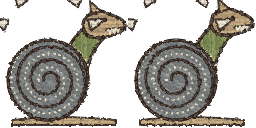
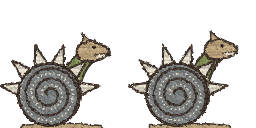
Add the winged snail-hound; redraw the armoured snail's spikes
Claude-Session: https://claude.ai/code/session_01Ub925vA7W77qaH7zf1hUDR

diff --git a/unity/Assets/Scripts/Actors/Enemy.cs b/unity/Assets/Scripts/Actors/Enemy.cs
@@ -11,7 +11,7 @@ namespace Tapestry
         public bool IsShell { get { return shell; } }
         public bool ShellMoving { get { return shell && shellVx != 0f && !carried; } }
         public bool Carried { get { return carried; } }
-        bool IsSnail { get { return Kind == "snail_hound" || Kind == "snail_moss"; } }
+        bool IsSnail { get { return Kind == "snail_hound" || Kind == "snail_moss" || Kind == "snail_wing"; } }
         bool carried;      // a green (mossy) shell held by a knight
         public int ShellCombo;   // beasts this shell has felled in a row (the score doubles each time)
         Knight carrier;
@@ -21,6 +21,7 @@ namespace Tapestry
         float dir = -1f, timer, anim, kickGrace, deadTimer, shellVx, lifeT;
         bool shell, squashed, flipped, charging, swooping, gravity = true;
         float speed, plantLevel;
+        bool winged;
         /// <summary>A plant sunk inside its urn: it cannot touch, or be touched.</summary>
         public bool Untouchable { get; private set; }
         /// <summary>1 normally; faster on 'Ye Wronge Syde' (the beasts, their hammers and spears all move and wait that much quicker).</summary>
@@ -49,6 +50,7 @@ namespace Tapestry
                 case "lapdog": speed = 2.6f; break;
                 case "smith": speed = 1.4f; break;
                 case "snail_spike": speed = 1.0f; break;
+                case "snail_wing": speed = 1.1f; gravity = false; winged = true; break;
                 case "urn_plant": gravity = false; break;
                 case "ember": gravity = false; timer = (pos.x * 0.37f) % 2f; break;
                 case "fox": speed = 1.4f; break;
@@ -109,6 +111,15 @@ namespace Tapestry
             float dx = ToPlayer(p);
             switch (Kind)
             {
+                case "snail_wing":
+                    if (winged)   // a lazy loop in the air, wings beating
+                    {
+                        float a = anim * 0.9f + home.x;
+                        Body.Pos = new Vector2(home.x + Mathf.Sin(a) * 2.5f, home.y + 1.6f + Mathf.Sin(a * 2f) * 0.6f);
+                        view.Face(Mathf.Cos(a) > 0f); view.SetFrame(3 + ((int)(anim * 6f) % 2));
+                        break;
+                    }
+                    goto case "snail_hound";
                 case "snail_hound":
                 case "snail_moss":
                     if (shell)
@@ -539,6 +550,13 @@ namespace Tapestry
         public bool OnKnight(Knight k, bool fromAbove)
         {
             if (!Alive || k.Dead) return false;
+            if (winged)   // a stomp clips its wings: it drops and walks
+            {
+                if (!fromAbove) { k.Hurt(); return false; }
+                winged = false; gravity = true; Body.Vel = Vector2.zero; k.Bounce(); Audio.Play("stomp");
+                GameManager.I.AddScore(100, Body.Pos + new Vector2(0f, Body.H));
+                return false;
+            }
             if (IsSnail && shell)
             {
                 if (ShellMoving)

diff --git a/tools/unity/preview_level.py b/tools/unity/preview_level.py
@@ -53,7 +53,7 @@ def render(n):
           elif c == ";" and get(x, y - 1) == "#": put(load(gtop), x + 0.5, y - 1)
           elif c in "Tt" and (x, y) not in done:
               done.add((x, y)); done.add((x + 1, y)); put(load("scenery/tower_top" if c == "T" else "scenery/tower_body"), x + 1, y)
-  spr = {"s": ("enemies/snail_hound", 3), "S": ("enemies/snail_moss", 3), "g": ("enemies/gull", 2), "x": ("enemies/crab", 2), "f": ("enemies/fish", 2), "z": ("enemies/sea_serpent", 2), "m": ("enemies/sea_monk", 2), "Q": ("scenery/log_pile", 1), "b": ("enemies/bird", 2), "e": ("enemies/hippocamp", 2), "v": ("enemies/stag", 2), "Z": ("scenery/wheel_year", 1), "j": ("enemies/boar", 2), "i": ("enemies/otter", 2), "n": ("enemies/swan", 2), "a": ("enemies/falcon", 2), "5": ("bosses/great_boar", 3), "y": ("enemies/hunter", 3), "q": ("enemies/greyhound", 2), "p": ("enemies/pheasant", 2), "I": ("enemies/genet", 2), "6": ("bosses/spotted_unicorn", 5), "{": ("enemies/lapdog", 2), "ß": ("enemies/smith", 3), "þ": ("enemies/snail_spike", 2), "}": ("enemies/fox", 2), "@": ("enemies/monkey", 2), "!": ("enemies/parakeet", 2), "$": ("bosses/heraldic_lion", 4), "&": ("enemies/locust", 2), "2": ("bosses/hydra_body", 2), "3": ("scenery/cat_throne", 1), "]": ("princess/aelfgyva", 3), "0": ("scenery/fountain", 1), "+": ("items/horn", 2), "<": ("scenery/wind_head", 1), ">": ("scenery/wind_head", 1), "h": ("enemies/killer_hare", 2), "l": ("enemies/fiery_lion", 3), "d": ("enemies/bayeux_hound", 2),
+  spr = {"s": ("enemies/snail_hound", 3), "S": ("enemies/snail_moss", 3), "g": ("enemies/gull", 2), "x": ("enemies/crab", 2), "f": ("enemies/fish", 2), "z": ("enemies/sea_serpent", 2), "m": ("enemies/sea_monk", 2), "Q": ("scenery/log_pile", 1), "b": ("enemies/bird", 2), "e": ("enemies/hippocamp", 2), "v": ("enemies/stag", 2), "Z": ("scenery/wheel_year", 1), "j": ("enemies/boar", 2), "i": ("enemies/otter", 2), "n": ("enemies/swan", 2), "a": ("enemies/falcon", 2), "5": ("bosses/great_boar", 3), "y": ("enemies/hunter", 3), "q": ("enemies/greyhound", 2), "p": ("enemies/pheasant", 2), "I": ("enemies/genet", 2), "6": ("bosses/spotted_unicorn", 5), "{": ("enemies/lapdog", 2), "ß": ("enemies/smith", 3), "þ": ("enemies/snail_spike", 2), "ƒ": ("enemies/snail_wing", 5), "}": ("enemies/fox", 2), "@": ("enemies/monkey", 2), "!": ("enemies/parakeet", 2), "$": ("bosses/heraldic_lion", 4), "&": ("enemies/locust", 2), "2": ("bosses/hydra_body", 2), "3": ("scenery/cat_throne", 1), "]": ("princess/aelfgyva", 3), "0": ("scenery/fountain", 1), "+": ("items/horn", 2), "<": ("scenery/wind_head", 1), ">": ("scenery/wind_head", 1), "h": ("enemies/killer_hare", 2), "l": ("enemies/fiery_lion", 3), "d": ("enemies/bayeux_hound", 2),
          "c": ("enemies/camel_dragon", 2), "w": ("enemies/wyvern", 2), "u": ("enemies/unicorn", 2), "O": ("enemies/owl_face", 2), "k": ("enemies/soup_cat", 3)}
   ws = re.search(r'WindSkin = "([^"]+)"', src)
   if ws: spr["<"] = spr[">"] = (ws.group(1), 1)

diff --git a/tools/emb/extras.py b/tools/emb/extras.py
@@ -127,14 +127,34 @@ C["ember"] = dict(title="Leaping Ember", size=(44, 46), frames=2, build=ember,
                   behaviour="leaps out of castle fire pits at intervals and falls back in; cannot be stomped or shot, only avoided")
 
 # ---------------------------------------------------------------- the armoured snail
+def _shrunk(base, f):
+    return g(base(f), "translate(6 16) scale(0.78)")
+
 def snail_spike(f):
     """A snail-hound in a grey iron shell studded with spikes: never stomp it."""
     from creatures import make_snail
-    s = make_snail("grey", "sage", "buff", "cream")(f)
-    for a in range(-70, 71, 35):   # spikes fanned over the top of the shell
-        x = 24 + 22 * math.sin(math.radians(a)); y = 20 - 22 * math.cos(math.radians(a))
-        dx = 9 * math.sin(math.radians(a)); dy = -9 * math.cos(math.radians(a))
-        s += fill(f"M{x - 3 * math.cos(math.radians(a)):.1f},{y - 3 * math.sin(math.radians(a)):.1f} L{x + dx:.1f},{y + dy:.1f} L{x + 3 * math.cos(math.radians(a)):.1f},{y + 3 * math.sin(math.radians(a)):.1f} Z", "white", 0, "dark", 1)
+    s = _shrunk(make_snail("grey", "sage", "buff", "cream"), f)
+    cx, cy, r = 24.7, 47.2, 15.6
+    for a in range(-80, 81, 32):
+        c, sn = math.cos(math.radians(a)), math.sin(math.radians(a))
+        bx, by = cx + r * sn, cy - r * c
+        s += fill(f"M{bx - 3.2 * c:.1f},{by - 3.2 * sn:.1f} L{bx + 10 * sn:.1f},{by - 10 * c:.1f} L{bx + 3.2 * c:.1f},{by + 3.2 * sn:.1f} Z", "white", 0, "dark", 1.1)
     return s
 C["snail_spike"] = dict(title="Armoured Snail-Hound", size=(64, 64), frames=2, build=snail_spike,
                         behaviour="walker with a spiked iron shell: stomping it hurts the knight; shoot it, or smite it with the relique")
+
+# ---------------------------------------------------------------- the winged snail-hound
+def snail_wing(f):
+    """Frames 0-1 walking and 2 shell (as the snail-hound, with a blue shell); 3-4 the winged flier, wings up then down."""
+    from creatures import make_snail
+    base = make_snail("sky", "rose", "buff", "white")
+    if f <= 2: return base(f)
+    s = _shrunk(base, 0)
+    if f == 3:   # wings lifted
+        w = "M22,24 Q8,20 2,6 Q14,8 18,2 Q22,12 30,8 Q28,18 30,24 Z"
+    else:        # wings swept down
+        w = "M22,24 Q8,30 2,44 Q14,40 18,46 Q22,36 30,40 Q28,30 30,24 Z"
+    s += fill(w, "white", 0, "dark", 1.3) + stem("M24,24 L10," + ("10" if f == 3 else "40") + " M26,24 L20," + ("6" if f == 3 else "42"), "grey", 0.8, False)
+    return s
+C["snail_wing"] = dict(title="Winged Snail-Hound", size=(64, 64), frames=5, build=snail_wing,
+                       behaviour="flies in a lazy loop; a stomp knocks its wings off and it walks, then hides in its shell like any snail-hound")

diff --git a/unity/Assets/Scripts/Levels/Level13.cs b/unity/Assets/Scripts/Levels/Level13.cs
@@ -25,7 +25,7 @@ namespace Tapestry
                 "         ?M?   BRB                        d             ?W?               BHB                               B?B?B B1B                                       BBB          BBB",
                 "                          ===            ====                                                ====                           ===              =====                      BBBB",
                 "                                                                                                                                                                       BBBBB",
-                "   P                  j j   h   S    u          þ   h         j       C         S     j             þ   u           j                 d             þ   j       h     BBBBBB      G",
+                "   P                  j j   h   S   ƒu          þ   h         j       C         S     j             þ   u           j             ƒ   d             þ   j       h     BBBBBB      G",
                 "#########################################    ################################################    ############################################     ######################################################",
                 "#########################################    ################################################    ############################################     ######################################################",
             },

diff --git a/unity/Assets/Scripts/Game/Bestiary.cs b/unity/Assets/Scripts/Game/Bestiary.cs
@@ -34,6 +34,7 @@ namespace Tapestry
             { 'v', new Entry("enemies/stag", "Stampede of Stagges", "Herdes thunder in from ye ryght. Leape them, or wayte upon ye plankes.") },
             { 'j', new Entry("enemies/boar", "Wilde Boare", "It chargeth when it seeth thee. Leape it, then stompe it.") },
             { 'þ', new Entry("enemies/snail_spike", "Armoured Snaile", "Its spikes bite a stomper. Shoote it, or leape over.") },
+            { 'ƒ', new Entry("enemies/snail_wing", "Winged Snaile-Hounde", "Stompe it once to clippe its wings, agayne to hyde it.") },
             { 'i', new Entry("enemies/otter", "Otter", "It leapeth from ye river as thou passest.") },
             { 'n', new Entry("enemies/swan", "Swanne", "It chargeth along ye water. Stompe it.") },
             { 'a', new Entry("enemies/falcon", "Falcon", "It wheeleth high, then stoopeth on thee.") },

diff --git a/tools/unity/make_levels.py b/tools/unity/make_levels.py
@@ -515,7 +515,7 @@ m = Map(200)
 m.ground(0, 40); m.ground(45, 92); m.ground(97, 140); m.ground(146, 199)
 m.put(3, 2, "P"); m.row(9, 5, "?M?"); m.row(15, 5, "BRB")
 m.put(22, 2, "j"); m.row(26, 4, "==="); m.row(30, 6, "===")
-m.put(48, 2, "þ"); m.put(100, 2, "þ"); m.put(148, 2, "þ")   # armoured snails
+m.put(48, 2, "þ"); m.put(36, 2, "ƒ"); m.put(130, 2, "ƒ"); m.put(100, 2, "þ"); m.put(148, 2, "þ")   # armoured snails
 m.row(41, 4, "===="); m.put(52, 2, "h"); m.row(56, 5, "?W?"); m.put(62, 2, "j")
 m.put(70, 2, "C"); m.row(74, 5, "BHB"); m.put(80, 2, "S"); m.put(86, 2, "j")
 m.row(93, 4, "===="); m.put(104, 2, "u"); m.row(108, 5, "B?B?B"); m.put(116, 2, "j")

diff --git a/unity/Assets/Scripts/Game/GameManager.cs b/unity/Assets/Scripts/Game/GameManager.cs
@@ -501,6 +501,7 @@ namespace Tapestry
                     case 'p': kind = "pheasant"; break;
                     case 'ß': kind = "smith"; break;
                     case 'þ': kind = "snail_spike"; break;
+                    case 'ƒ': kind = "snail_wing"; break;
                     case 'é': kind = "ember"; break;
                     case 'ø': kind = "urn_plant"; break;
                     case 'I': kind = "genet"; break;

diff --git a/ROADMAP.md b/ROADMAP.md
@@ -139,10 +139,9 @@ The seven trumpets, the locusts with human faces, the four horsemen, and the sev
 
 ## Ideas from a look at the old Mario games
 
-**Built:** Best Glorie (saved high score), bells at the pole, Smythes (hammer throwers), Urn-Plantes, wells with a treasure cellar, the Armoured Snail-Hound (spiked, never stomp it; in 4-1 for now), leaping embers (sparks that jump from castle fire pits), Ye Wronge Syde (hard mode after the ending), and a title screen laid out like the old one (banner, menu with cursor, top score).
+**Built:** Best Glorie (saved high score), bells at the pole, Smythes (hammer throwers), Urn-Plantes, wells with a treasure cellar, the Winged Snail-Hound (a stomp clips its wings; in 4-1 for now), the Armoured Snail-Hound (spiked, never stomp it; in 4-1 for now), leaping embers (sparks that jump from castle fire pits), Ye Wronge Syde (hard mode after the ending), and a title screen laid out like the old one (banner, menu with cursor, top score).
 
 **Still to do (not yet built):**
-- **Winged beasts** that bob or flutter in the air, and can be stomped to knock the wings off.
 - **Falling and balance lifts**: platforms that sink once stood on, and a pulley pair that see-saw.
 - **A cloud-riding imp** who drops hedgehog-like spiny eggs from above.
 - **Bombards**: cannons that fire slow balls across the screen.

diff --git a/unity/README.md b/unity/README.md
@@ -171,6 +171,7 @@ The longer levels have a **halfway banner**. Touch it and it turns red; if you d
 - **Bells at the pole:** when a level ends, the last figure of your Tyme count decides the bells: 1, 3 or 6 ring (1, 3 or 6 bells) as the knight walks into the castle, each worth 500 glory. Others ring none.
 - **Smythes:** hammer-throwing smiths (Worlds 4 and up; always in pairs). They walk a short beat, hop, and hurl hammers in arcs. Stomp or shoot them.
 - **Leaping Embers:** in castles, a spark leaps out of the middle of every fire pit three or more tiles wide, then falls back in. It cannot be stomped or shot, and burns a knight who touches it.
+- **Winged Snail-Hound:** a blue snail-hound that flies a lazy loop. Stomp it once to clip its wings (it drops and walks), then stomp it into its shell as usual. Two in Level 4-1.
 - **Armoured Snail-Hound:** a grey, spiked snail that plods along. Stomping it hurts the knight; shoot it or smite it with the relique. Three in Level 4-1.
 - **Urn-Plantes:** a biting plant that rises from an urn and snaps, then sinks; it stays down while you stand on or beside the urn. Stomping it hurts; bolts fell it.
 - **Wells:** stand on a stone well and press DOWN to climb in to a treasure cellar (about thirty coins); a pipe-like exit leads back to the well. Wells are in Levels 2 and 5.
